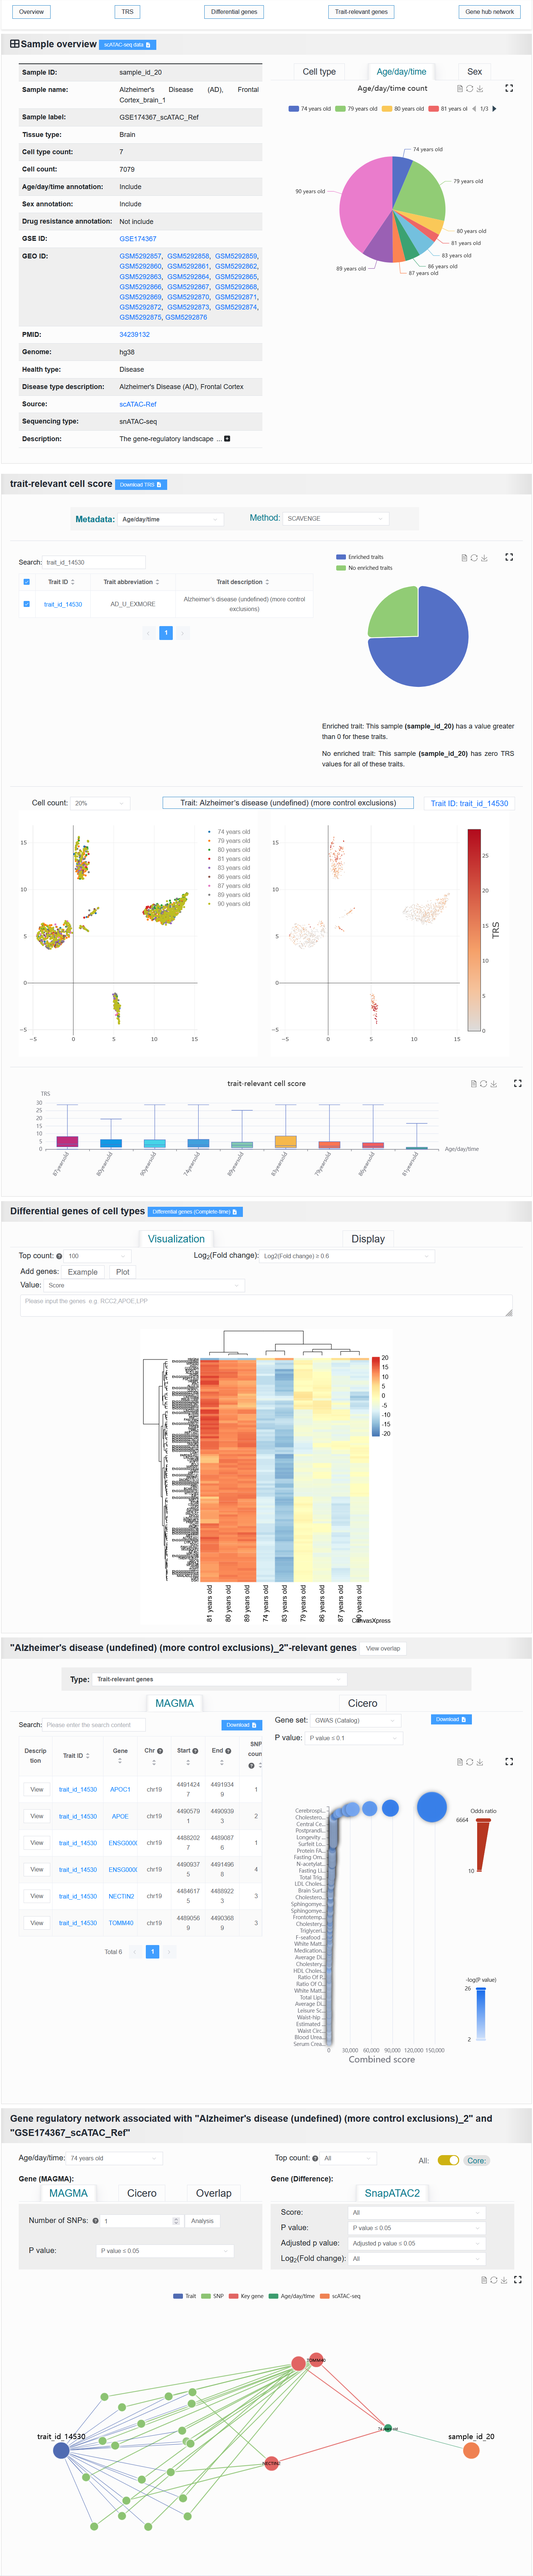
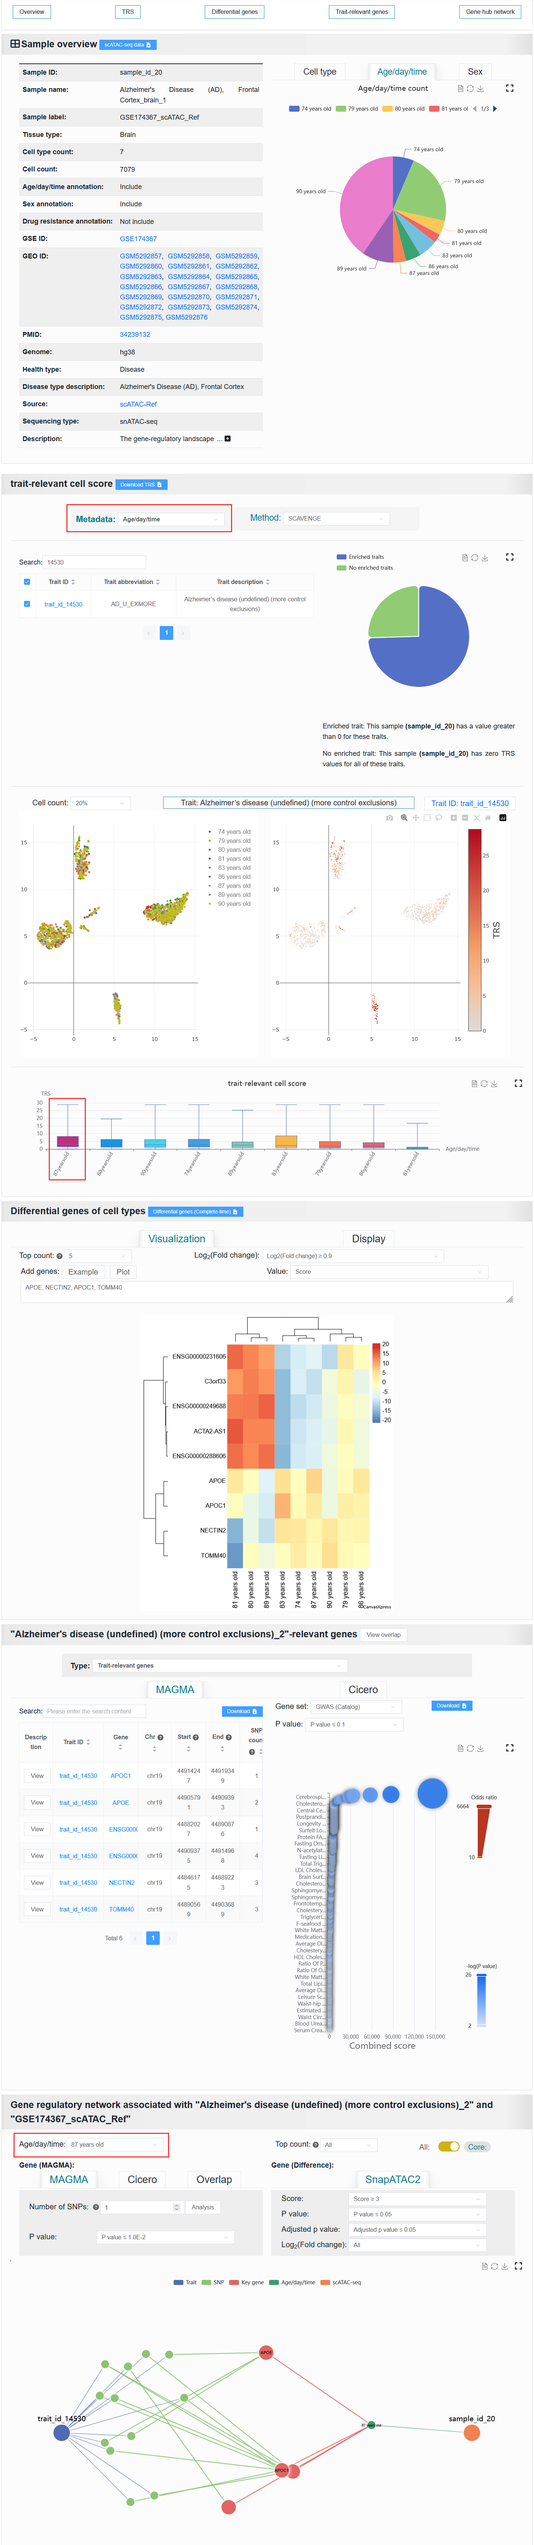
feat: Improve detail information

diff --git a/docs/source/usage/detail.rst b/docs/source/usage/detail.rst
@@ -112,6 +112,7 @@ For example:
 
     When a trait with SuSiE methods (trait_id_1-79) is selected, results from both methods are available for display. However, when SuSiE is selected, only the results from the TRS module can be displayed.
 
+
  | SuSiE
 
 .. image:: ../img/detail/sample_enrichment_default_susie.png
@@ -131,8 +132,8 @@ Here, users can select ``metadata`` for cell annotation and choose different int
 
 These two options affect different scopes.
 
-1. The Metadata option affects the ``TRS``, ``Differential genes``, ``Trait-relevant genes``, and ``Gene hub network`` modules. Selecting different metadata (cell type, age, sex, or drug resistance) allows for the exploration of V2G differences under the corresponding metadata.
-#. The Method option affects only the ``TRS`` module.
+1. The ``Metadata`` option affects the ``TRS``, ``Differential genes``, ``Trait-relevant genes``, and ``Gene hub network`` modules. Selecting different metadata (cell type, age, sex, or drug resistance) allows for the exploration of V2G differences under the corresponding metadata.
+#. The ``Method`` option affects only the ``TRS`` module.
 
 .. note::
 
@@ -170,14 +171,39 @@ For example: AD (sample_id_20 + trait_id_14530)
 2.4.3 Differential genes
 ^^^^^^^^^^^^^^^^^^^^^^^^^^^^^^^
 
-It displays a heatmap and a data table of differentially expressed genes between cell types (based on scATAC seq data for gene activity scoring), as well as a bubble plot describing pathway and GO enrichment analysis results.
+The content displayed in this module will vary depending on the selected metadata.
 
-.. image:: ../img/detail/differential_genes.png
+1. Cell type:
 
-Click the ``Top count`` option to set to ``5``, then click ``Example``, and finally click the ``Plot`` button.
-After running, we can see the differential gene expression heatmap of BCC case in the article.
+It displays a heatmap and a data table of differentially active genes between cell types, as well as a bubble plot showing the results of the gene pathway enrichment analysis.
 
-.. image:: ../img/detail/differential_genes_article.png
+For example: BCC (sample_id_1 + trait_id_894)
+
+.. image:: ../img/detail/differential_genes_bcc.png
+
+Click the ``Top count`` option and set it to ``5``, select ``Log2(Fold change)`` to be ``≥ 6``, then click ``Example``, and finally click the ``Plot`` button.
+Once the process is complete, a differentially active gene heatmap for the BCC case will be generated, replicating the analysis from the article.
+
+.. image:: ../img/detail/differential_genes_bcc_article.png
+
+For example: AD (sample_id_20 + trait_id_14530)
+
+Click the ``Top count`` option and set it to ``5``, select ``Log2(Fold change)`` to be ``≥ 0.9``, then input ``APOE, NECTIN2, APOC1, TOMM40``, and finally click the ``Plot`` button.
+Once the process is complete, a differentially active gene heatmap for the AD case will be generated, replicating the analysis from the article.
+
+.. image:: ../img/detail/differential_genes_ad_article.png
+
+2. Other metadata:
+
+It displays a heatmap and a data table of differentially active genes between cell types.
+
+For example: AD (sample_id_20 + trait_id_14530)
+
+.. image:: ../img/detail/differential_genes_ad_age.png
+
+.. note::
+
+    Gene pathway enrichment analysis is not supported for metadata other than cell type.
 
 2.4.4 Trait-relevant genes
 ^^^^^^^^^^^^^^^^^^^^^^^^^^^^^^^
